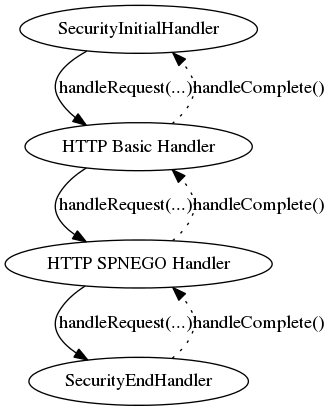
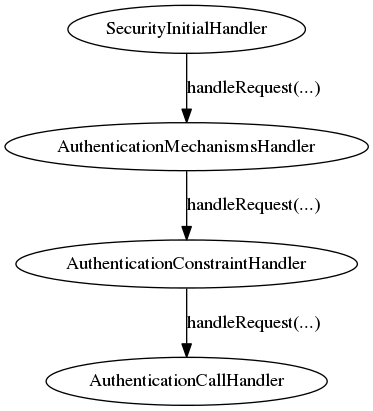
Reworked the security section of the doc to mark the change to AuthenticationMechanisms instead of pure handlers.

diff --git a/undertow-design-doc.md b/undertow-design-doc.md
@@ -256,81 +256,124 @@ shorter.
 to install undertow into their existing instance and test it out.
 
 
-
-
-
 Security
 ========
 
-The security handlers are primarily implemented as asynchronous handlers under 
-the core module, this is for a couple of reasons.
+Security within Undertow is implemented as a set of asynchronous handlers and a set of authentication
+mechanisms co-ordinated by these handles.
 
 * Allow authentication to occur in the call as early as possible.
 * Allows for use of the mechanisms in numerous scenarios and not just for servlets.
 
-The implementation makes use of a pair of handlers to coordinate the authentication
-process with handlers for specific authentication mechanisms sandwiched between them.
-The inbound exchange is expected to pass through the mechanism specific handler where 
-each handler checks the incomming request for whatever it may require to perform 
-authentication, if the mechanism handler can find what it needs then authentication is
-performed and the call progresses to the next handler, this repeats until the 
-`SecurityEndHandler` is reached.
+Early in the call chain is a handler called `SecurityInitialHandler`, this is where the security processing
+beings, this handler ensures that an empty `SecurityContext` is set on the current `HttpServerExchange`
+and that any existing `SecurityContext` is removed.  As the call returns later this handler
+is also responsible for removing the `SecurityContext` that was set and restoring the one remove.
 
-The `SecurityEndHandler` is the final barrier for entry of the request, if this handler is 
-reached and authentication is required but not completed the call will progress no further
-and the `HttpCompletionHandler` will be called.  As the mechanism specific handlers were 
-handling the incomming request they will also have been wrapping the `HTTPCompletionHandler`
-with one of their own - at this point as the `HTTPCompletionHandlers` are being called they will
-be setting their mechanism specific challenges in the response message being sent to the client.
+The `SecurityContext` is responsible for both holding the state related to the currently authenticated user
+and also for holding the configured `AuthenticationMechanism`s and providing methods to work with both of 
+these.  As this `SecurityContext` is replacable and restorable then advanced configurations can be
+achieve where a general configuration can be applied to a complete server with custom configuration
+replacing it later in the call.
+
+After the `SecurityContext` has been established subseqeunt handlers can then add `AuthenticationMechanism`s
+to the context, to simplify this Undertow contains a handler called `AuthenticationMechanismsHandler`
+this handler can be created with a set of `AuthenticationMechanism`s and will set them all on the 
+established `SecurityContext`.  Alternatively custom handlers could be used to add mechanisms one at a time
+bases on alternative requirements.
+
+The next handler in the authentication process is the `AuthenticationConstraintHandler`, this handler is 
+responsible for checking the current request and identifying if authentication should be marked as being
+required for the current request.  The default implementation marks authentication as being required for
+all requests that it handles - the handler can be extended and the `isAuthenticationRequired` method 
+overriden to provide more complex checks.
+
+The final handler in this chain is the `AuthenticationCallHandler`, this handler is responsible for 
+ensuring the `SecurityContext` is called to actually perform the authentication process, depending 
+on any identified constraint this will either mandate authentication or only perform authentication 
+if appropriate for the configured mechanisms.
+
+There is no requirement for these handlers to be executed consecutively, the only requirement is that first
+the `SecurityContext` is established, then the `AuthenticationMechanism`s and constrain check can be 
+performed in any order and finally the `AuthenticationCallHandler` but be called before any processing of
+a potentially protected resource.
 
 ![An Example Security Chain](https://raw.github.com/darranl/undertow-docs/security/images/security_handlers.png "An Example Security Chain") 
 
-In this note that the handleComplete calls are shown as dotted lines as the are not really 
-to the handler but to a `HttpCompletionHandler` registered by the handler.
+Security mechanisms that are to be used must implement the following interface: -
 
-Primarily the state of authentication is associated with the `HTTPServerExchange` however
-in addition to this the state can also be associated with the `HttpServerConnection` or
-the `Session` - how these additional stores are used is mechanism specific - as an example 
-the HTTP Digest mechanism allows for a nonce to be only used for a short time, the 
-`SecurityInitialHandler` should not undermine this by then using authentication date
-in a session which has a long term ID and no replay protection.
+        public interface AuthenticationMechanism {
+            IoFuture<AuthenticationResult> authenticate(final HttpServerExchange exchange);
+            void handleComplete(final HttpServerExchange exchange, final HttpCompletionHandler completionHandler);
+        }
 
-To coordinate this the primary purpose of the `SecurityInitialHandler` is to create a 
-`SecurityContext` and associate it with the current `HttpServerExchange`, one of the parameters
-stored within the `SecurityContext` is an `AuthenticationState` which can take one of four
-values: -
+The `AuthenticationResult` is used by the mechanism to indicate the status of the attempted authentication and
+is also used as the mechanism to return the Principal of the authenticated identity if authentication we
+achieved.
 
-* **NOT_REQUIRED** - No security constraint has been identified that mandates authenitcation.
-* **REQUIRED** - Authentication must be successful before the request can be processed.
-* **AUTHENTICATED** - This request has been authenticated.
-* **FAILED** - A failure occured authenticating this request, at this stage this does not differentiate between bad parameters or some other internal failure.
+        public class AuthenticationResult {
+            private final Principal principle;
+            private final AuthenticationOutcome outcome;
 
-The following diagram shows the transitions between these states.
+            public AuthenticationResult(final Principal principle, final AuthenticationOutcome outcome) { ... }
+        }
 
-![Authentication States](https://raw.github.com/darranl/undertow-docs/security/images/authentication_states.png "Authentication States") 
+The authentication process is split into two phases, the `INBOUND` phase and the `OUTBOUND` phase, the
+`INBOUND` phase is only responsible for checking if authentication data has been received from the client
+and using to attempt authentication if and only if it has been provided.  During the `INBOUND` phase the 
+mechanisms are called sequentally (if we wanted to support multiple mechanisms succeeding concurently 
+we could also execute these concurently although that would lead to multiple threads per request) -
+a mechanism is caled in this phase by a call to `authenticate`.
 
-The `SecurityInitialHandler` is responsible for setting the initial state to `REQUIRED` or `NOT_REQUIRED` 
-based on the configured security constraints, the mechanism specific handlers will then perform 
-the transitions to the other states as illustrated.  The `SecurityEndHandler` will then only 
-allow the request to proceed if the state is either `NOT_REQUIRED` or `AUTHENTICATED`.
+When the `authenticate` method of the `AuthenticationMechanism` is called the outcome is indicated
+using an `AuthenticationResult` with an `AuthenticationOutcome` of one of the following: -
 
-The transitions from `REQUIRED` are fairly self explanitory, if a mechanism specific handler
-successfully authenticated the incomming request it will transition to `AUTHENTICATED`,
-if there is any failure during the verification then it will set it to `FAILED`.  If the
-incomming request does not contain the parameters required by the mechanism then no
-transition will occur.
+* **AUTHENTICATED** - The mechanism has successfully authenticated the remote user.
+* **NOT_ATTEMPTED** - The mechanism saw no applicable security tokens so did not attempt to authenticate the user.
+* **NOT_AUTHENTICATED** - The mechanism attempted authentication but it either failed or requires an additional round trip to the client.
 
-The transition from `NOT_REQUIRED` requires a little more description, these transitions
-are to cover a scenario where the final applications being served up by the server
-require access to a users identity if they have authenticated so in this situation 
-depending on the mechanism there could be verifiable security tokens in the request
-even though a challenge was not sent or there could be state already cached against the
-`HTTPServerConnection` or within the `Session`.  The transition to `Authenticated` is the
-simplest - that happens if the mechanism was able to confirm the authenticated state of
-the user.  A transition to `Failed` would occur if the authentication can not be verfied
-due to some internal error.  The transition to `Required` would be used for scenarios
-where we have an authenticated user but the authentication is 'stale' this could be because
-the nonce in a digest challenge has now expired or it could be because a previously valid
-password is no longer valid.
+If the `AuthenticationOutcome` is `AUTHENTICATE` then a `Principal` must also be returned in the `AuthenticationResult`, the remaining
+outcomes will not have a `Principal` to return.
+
+The overall authentication process using the mechanisms run as follows: -
+
+Regardless of if authentication has been flagged as being required when the request reaches the `AuthenticationCallHandler` the 
+`SecurityContext` is called to commence the process.  The reason this happens regardless of if authentication is flagged as
+required is for a few reasons: -
+1 - The client may have sent additional authentication tokens and have expectations the response will take these into account.
+2 - We may be able to verify the remote user without any additional rount trips, especially where authentication has already occurred.
+3 - The authentication mechanism may need to pass intermediate updates to the client so we need to ensure any inbound tokens are valid.
+
+When authentication runs the `authenticate` method on each configured `AuthenticationMechanism` is called in turn, this continues
+untill one of the following occurs: -
+
+1 - A mechanisms successfully authenticates the request and returns `AUTHENTICATED`.
+2 - A mechanism attempts but does not complete authentication and returns `NOT_AUTHENTICATED`.
+3 - The list of mechanisms is exhausted.
+
+At this point if the response was `AUTHENTICATED` then the request will be allowed through and passed onto the next handler.
+
+If the request is `NOT_AUTHENTICATED` then either authentication failed or a mechanism requires an additional round trip with the
+client, either way the `handleComplete` method of each defined `AuthenticationMethod` is called in turn and the response sent back
+to the client.  All mechanisms are called as even if one mechanism is mid-authentication the client can still decide to abandon
+that mechanism and switch to an alternative mechanism so all challenges need to be re-sent.
+
+If the list of mechanisms was exhausted then the previously set authentication constraint needs to be checked, if authentication was
+not required then the request can proceed to the next handler in the chain and that will be then of authentication for this request
+(unless a later handler mandates authentication and requests authentication is re-atempted).  If however authentication was required
+then as with a `NOT_AUTHENTICATED` response each mechanism has `handleComplete` called in turn to generate an authentication challenge
+to send to the client.
+
+If request processing after calling the mechanisms is allowed through to the next handler and if no mechanism authenticated the 
+incomming requests then the mechanisms are not called in the `OUTBOUND` phase - however if an `AuthenticationMechanism` did 
+authenticate the client then regardless of if this was flagged as required the `handleComplete` method of that mechanism and only
+that mechanism will be called.  The purpose of this is in case the mechanism needs to send further mechanism specific tokens
+back to the client.
+
+A mechanism can make the following call within the `handleComplete` method to check if it should be sending back a general
+challenge or if it being called for an optional update: -
+
+        if (Util.shouldChallenge(exchange)) { ... }
+
 
 
